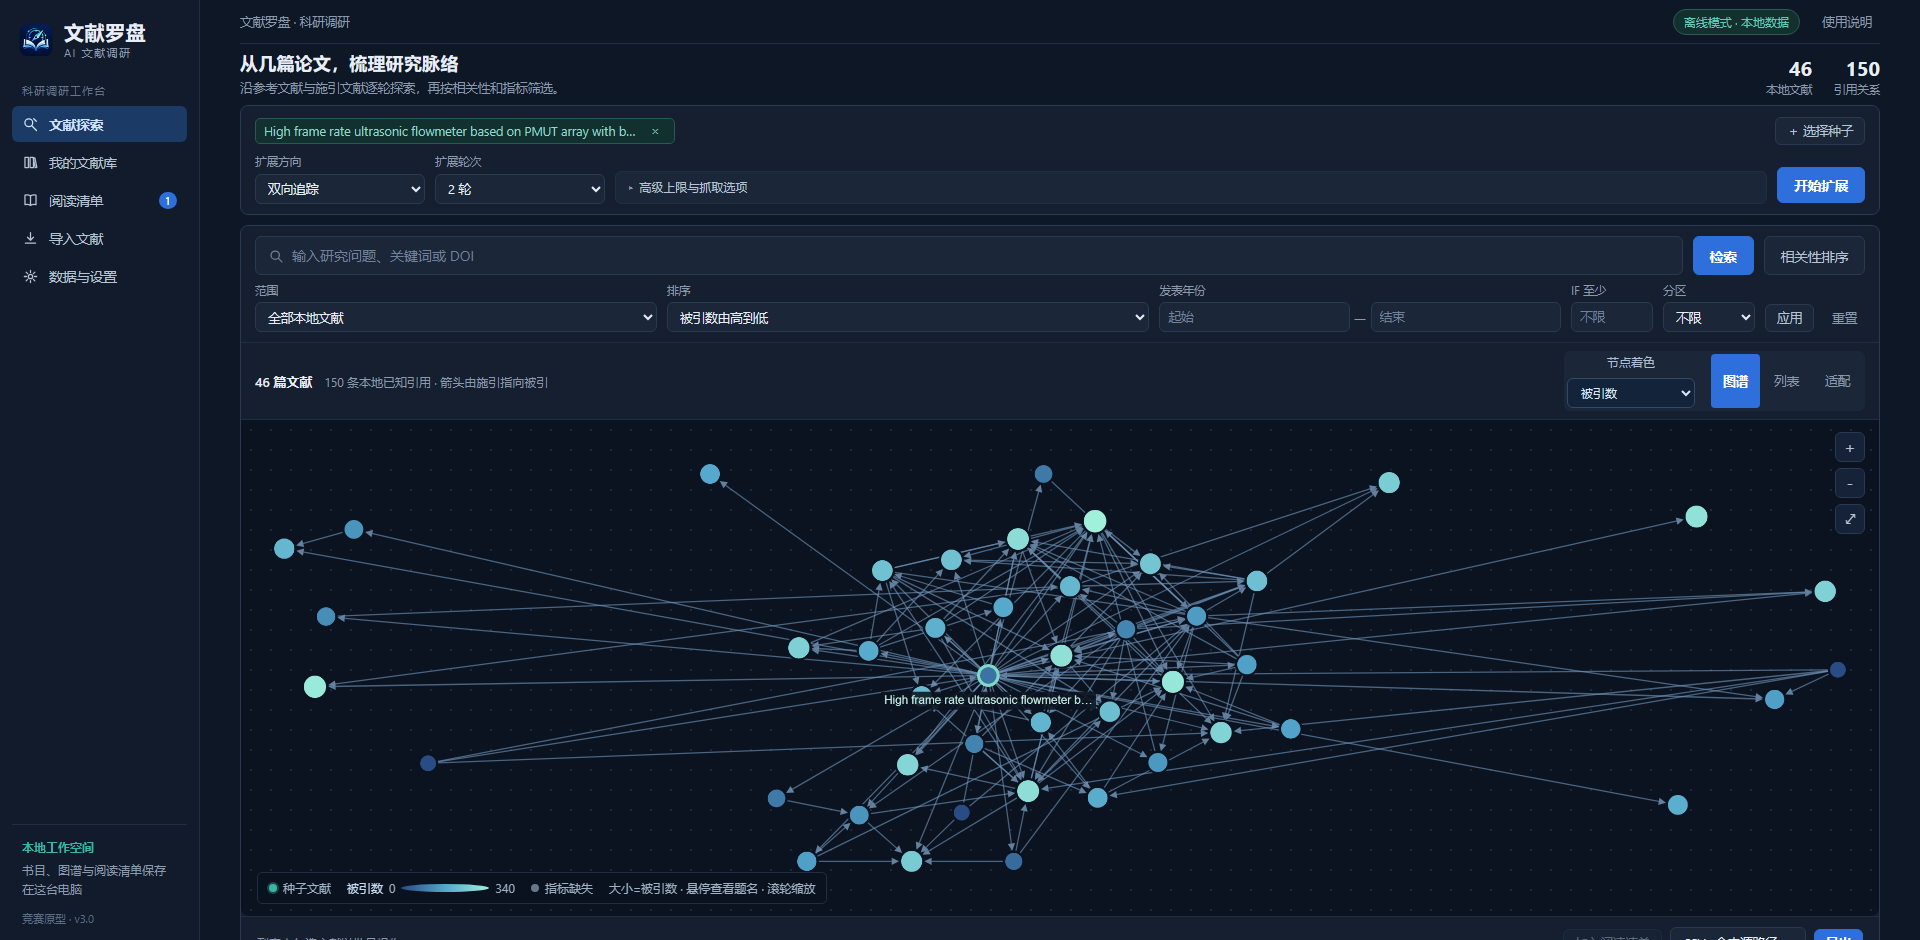
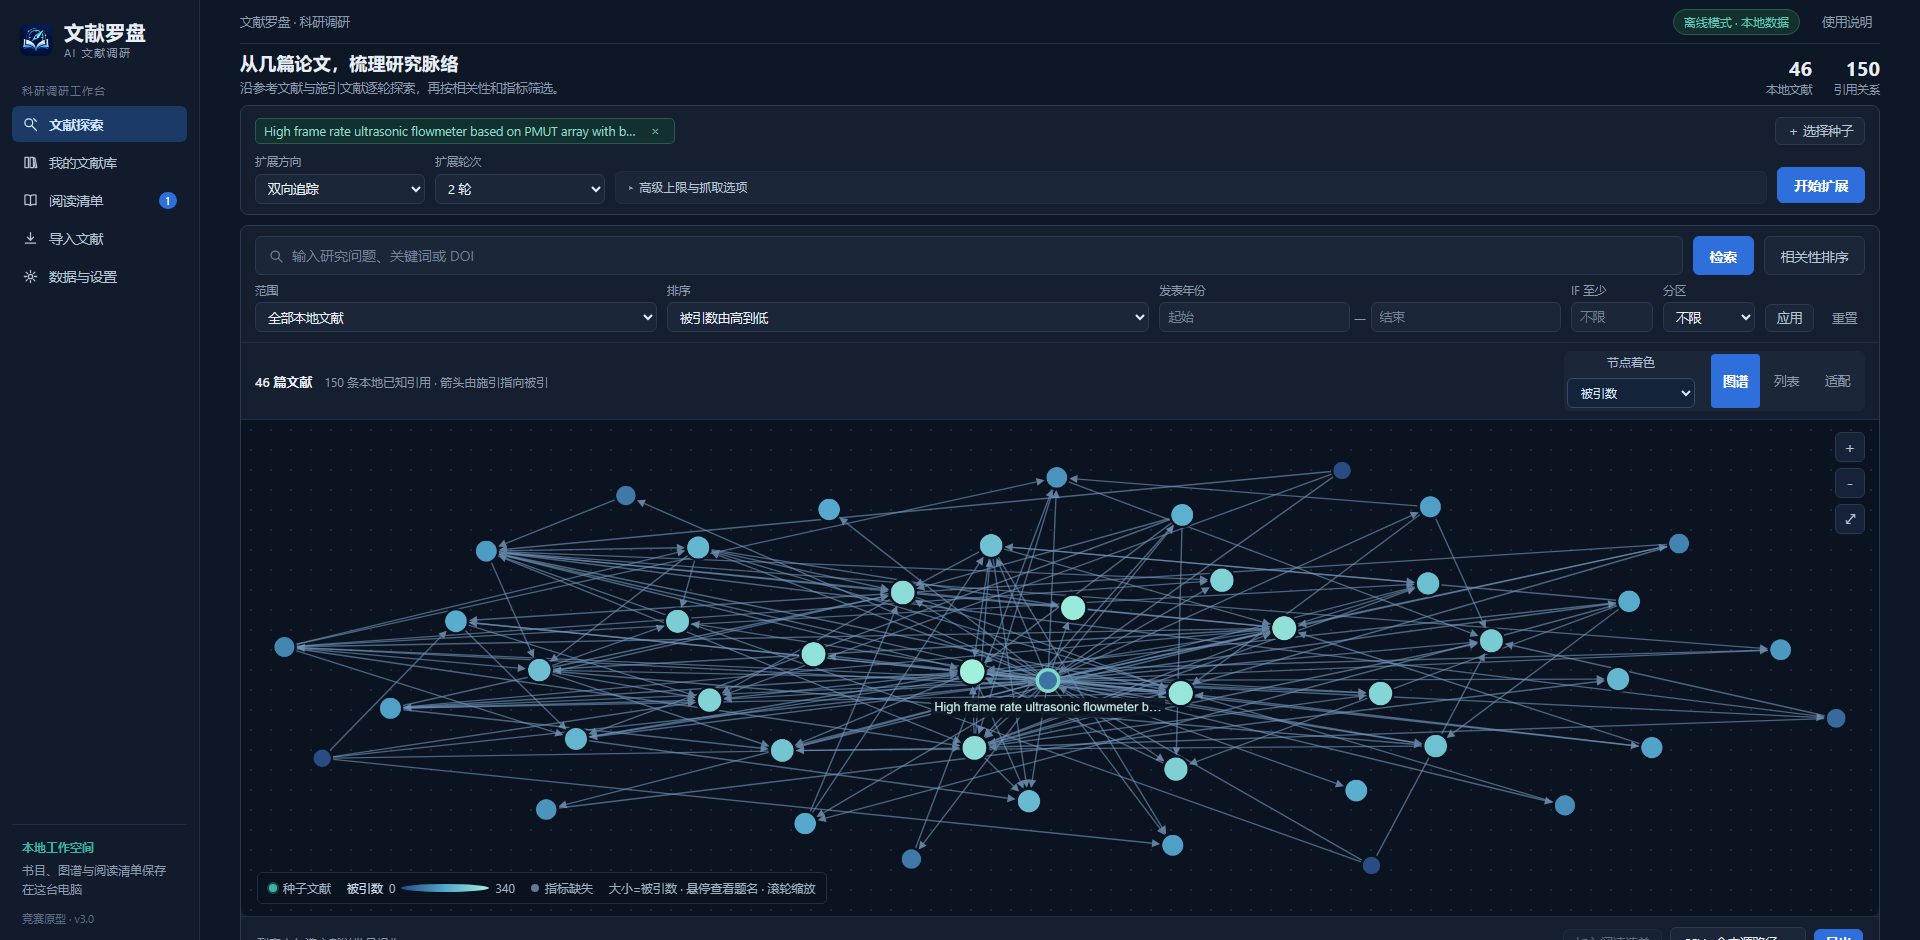
Use uniform seed-centred graph layout without node clustering

diff --git a/static/workspace.js b/static/workspace.js
@@ -22,10 +22,14 @@ function spreadGraph(cy){
  const el=$('graph');el.style.height=Math.max(360,window.innerHeight-el.getBoundingClientRect().top-24)+'px';cy.resize();
  const ns=cy.nodes();if(ns.length<2){cy.fit(null,55);return;}
  const W=el.clientWidth,H=el.clientHeight,padX=85,padY=65;
- const pts=ns.map(n=>({...n.position()}));
- const minX=Math.min(...pts.map(p=>p.x)),maxX=Math.max(...pts.map(p=>p.x));
- const minY=Math.min(...pts.map(p=>p.y)),maxY=Math.max(...pts.map(p=>p.y));
- pts.forEach(p=>{p.x=padX+(p.x-minX)/Math.max(1,maxX-minX)*(W-2*padX);p.y=padY+(p.y-minY)/Math.max(1,maxY-minY)*(H-2*padY);});
+ // Uniform area distribution prevents strongly connected nodes collapsing together.
+ const seedIndex=Math.max(0,ns.toArray().findIndex(n=>n.hasClass('seed')));
+ let rank=0;const cx=W/2,cy0=H/2,rx=(W-2*padX)/2,ry=(H-2*padY)/2;
+ const pts=ns.map((n,i)=>{
+  if(i===seedIndex)return {x:cx,y:cy0};
+  rank++;const r=Math.sqrt((rank-.25)/(ns.length-.5)),angle=rank*2.399963229728653;
+  return {x:cx+rx*r*Math.cos(angle),y:cy0+ry*r*Math.sin(angle)};
+ });
  const gap=ns.length>150?42:ns.length>80?52:66;
  for(let pass=0;pass<100;pass++){
   let moved=false;
@@ -44,7 +48,7 @@ const values=mode==='cluster'?[]:papers.map(p=>graphMetric(p,mode)).filter(v=>v!
 const legend=$('graph-color-legend');if(legend)legend.innerHTML='<span><i class="seed-dot"></i>种子文献</span>'+(mode==='cluster'?'<span>颜色表示引用网络分组</span>':'<span><b>'+names[mode]+'</b> '+(lo??'暂无数据')+' <i class="graph-gradient"></i> '+(hi??'暂无数据')+'</span><span><i class="graph-unknown"></i>指标缺失</span>')+'<span>大小=被引数 · 悬停查看题名 · 滚轮缩放</span>';
 return {mode,color:p=>{const v=graphMetric(p,mode);if(v===null||lo===null)return '#68778a';let t=hi===lo?.65:mode==='cited'?(Math.log1p(v)-Math.log1p(lo))/(Math.log1p(hi)-Math.log1p(lo)):(v-lo)/(hi-lo);const a=t<.55?[40,76,131]:[83,166,204],b=t<.55?[83,166,204]:[160,240,219];t=t<.55?t/.55:(t-.55)/.45;return 'rgb('+a.map((x,i)=>Math.round(x+(b[i]-x)*t)).join(',')+')';},title:p=>names[mode]+': '+(graphMetric(p,mode)??'缺失')};}
 function drawGraph(){if(!state.data||$('workspace-page').hidden||state.view!=='graph')return;state.cy?.destroy();const palette=['#549c99','#7798b7','#c6a36d','#8c8cb0','#9bac89','#b98f93'];const papers=state.data.papers;const colors=colorScale(papers);const labelIds=new Set(papers.filter(p=>p.is_seed).map(p=>p.id));const elements=papers.map((p,i)=>({data:{id:String(p.id),title:(p.title||p.title_zh||'')+(colors.mode==='cluster'?'':'\n'+colors.title(p)),label:labelIds.has(p.id)?(p.title||p.title_zh||'').slice(0,38)+((p.title||'').length>38?'…':''):'',color:colors.mode==='cluster'?palette[p.cluster%palette.length]:colors.color(p),size:Math.max(17,Math.min(30,17+Math.log10(1+(p.cited_by_count||0))*2.5))},classes:p.is_seed?'seed':'',position:{x:300+Math.cos(i*2.399)*Math.sqrt(i+1)*25,y:250+Math.sin(i*2.399)*Math.sqrt(i+1)*25}})).concat(state.data.edges.map(e=>({data:{id:`e${e.from}-${e.to}`,source:String(e.from),target:String(e.to)}})));
- state.cy=cytoscape({container:$('graph'),elements,style:[{selector:'node',style:{'background-color':'data(color)',width:'data(size)',height:'data(size)',label:'data(label)','font-size':11,'color':'#c6d3e2','text-valign':'bottom','text-margin-y':9,'text-background-color':'#0b1320','text-background-opacity':.88,'text-background-padding':3,'border-width':2,'border-color':'#0b1320'}},{selector:'node.seed',style:{'border-color':'#7fd8c9','border-width':3,'font-weight':650,color:'#c9f2ea'}},{selector:'edge',style:{width:1.2,'line-color':'#7398bd','target-arrow-color':'#9ac5eb','target-arrow-shape':'triangle','arrow-scale':.8,'curve-style':'bezier',opacity:.62}},{selector:'node.hover-title',style:{label:'data(title)','text-wrap':'wrap','text-max-width':230,'font-size':12,'z-index':999,'text-background-opacity':1}},{selector:'node:selected',style:{'border-width':4,'border-color':'#6cb2ef',label:'data(title)','text-max-width':180,'text-wrap':'wrap'}},{selector:'.dim',style:{opacity:.15}},{selector:'.focus',style:{opacity:1,width:1.9,'line-color':'#91ceff','target-arrow-color':'#b9e4ff'}}],layout:{name:'cose',animate:false,randomize:false,nodeRepulsion:45000,idealEdgeLength:160,gravity:.025,padding:40,numIter:800},minZoom:.15,maxZoom:3,wheelSensitivity:.25});
+ state.cy=cytoscape({container:$('graph'),elements,style:[{selector:'node',style:{'background-color':'data(color)',width:'data(size)',height:'data(size)',label:'data(label)','font-size':11,'color':'#c6d3e2','text-valign':'bottom','text-margin-y':9,'text-background-color':'#0b1320','text-background-opacity':.88,'text-background-padding':3,'border-width':2,'border-color':'#0b1320'}},{selector:'node.seed',style:{'border-color':'#7fd8c9','border-width':3,'font-weight':650,color:'#c9f2ea'}},{selector:'edge',style:{width:1.2,'line-color':'#7398bd','target-arrow-color':'#9ac5eb','target-arrow-shape':'triangle','arrow-scale':.8,'curve-style':'bezier',opacity:.62}},{selector:'node.hover-title',style:{label:'data(title)','text-wrap':'wrap','text-max-width':230,'font-size':12,'z-index':999,'text-background-opacity':1}},{selector:'node:selected',style:{'border-width':4,'border-color':'#6cb2ef',label:'data(title)','text-max-width':180,'text-wrap':'wrap'}},{selector:'.dim',style:{opacity:.15}},{selector:'.focus',style:{opacity:1,width:1.9,'line-color':'#91ceff','target-arrow-color':'#b9e4ff'}}],layout:{name:'preset',fit:false},minZoom:.15,maxZoom:3,wheelSensitivity:.25});
  spreadGraph(state.cy);
  state.cy.on('tap','node',guarded(async event=>openDetail(Number(event.target.id()))));state.cy.on('mouseover','node',event=>{const node=event.target;node.addClass('hover-title');state.cy.elements().addClass('dim');node.closedNeighborhood().removeClass('dim').addClass('focus');});state.cy.on('mouseout','node',()=>state.cy.elements().removeClass('dim focus hover-title'));}
 function setView(view){state.view=view;$('graph-wrap').hidden=view!=='graph';$('list-wrap').hidden=view!=='list';for(const item of ['graph','list']){$(`${item}-view`).classList.toggle('active',item===view);$(`${item}-view`).setAttribute('aria-pressed',item===view?'true':'false');}$('fit-graph').hidden=view!=='graph';if(view==='graph')requestAnimationFrame(drawGraph);}
